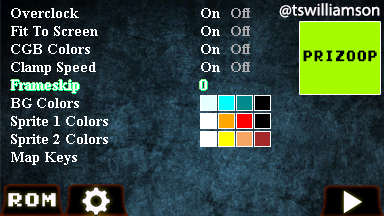
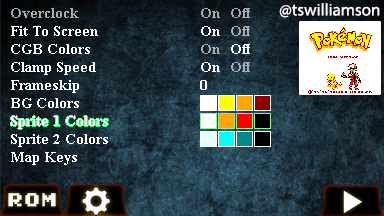
New Readme and options screen reflecting image preview

diff --git a/README.md b/README.md
@@ -3,23 +3,23 @@
 Prizoop
 =======
 
-Prizoop is a Game Boy emulator for the Casio Prizm series graphing calculator, with intense focus on optimization and decent feature set for the target device. As such, it is not a very accurate emulator but is very fast and compatible. 
+Prizoop is a Game Boy emulator for the Casio Prizm series graphing calculator, with intense focus on optimization and decent feature set for the target device. As such, it is not a very accurate emulator but is very fast and compatible. The emulator now supports fx-CG10, fx-CG20, and the new fx-CG50. 
 
 It got its name because it started out as a fork of the multiplatform Game Boy emulator, Cinoop, by CTurt. It has since undergone significant rewrites and improvements, and shares some of the cpu code, organization and constructs from Cinoop, but for the most part resembles Cinoop much less than a normal fork.
 
 ## Install
 
-Copy the .g3a file and the Prizoop folder from this repository to your Casio Prizm calculator's root path when linked via USB. Gameboy roms (.gb) also should go inside of the root directory.
+Copy the prizoop.g3a file to your Casio Prizm calculator's root path when linked via USB. Gameboy roms (.gb) also should go inside of the root directory. That's it! No additional files to add anymore.
 
 ## Support
 
 ![Game Banner](/Screens/GameBanner.png?raw=true)
 
-The emulator now plays over 95% of the games I have been able to test smoothly at this point. Some games where timing accuracy is very important suffer, specifically racing games. Road Rash and F1 Race are playable but have some visual issues, and F1 Pole Position does not play at all.
+The emulator now plays over 95% of the games I have been able to test smoothly at this point. Some games where timing accuracy is very important suffer, specifically racing games. Road Rash and F1 Race are playable but have some visual issues, and F1 Pole Position does not play at all. Pokemon Rouge (the French Pokemon Red) now officially works.
 
 ## Building
 
-Project root must be within /projects directory of publicly available community SDK v0.3 for Prizm. The SDK must be patched with the latest version of libFXCG as well. To build on a Windows machine simply run make.bat. For other systems please refer to your Prizm SDK documentation on how to compile projects.
+Project root must be within /projects directory of publicly available community SDK v0.3 for Prizm. The SDK must be patched with the latest version of libFXCG as well which has the latest syscalls defined. To build on a Windows machine simply run make.bat. For other systems please refer to your Prizm SDK documentation on how to compile projects.
 
 If you use Visual Studio, a project is included that uses a Windows Simulator I wrote that wraps Prizm OS functions so that the code and emulator can easily be tested and iterated on within Visual Studio. See the prizmsim.cpp/h code for details on its usage.
 
@@ -33,6 +33,8 @@ F6 - Play ROM (it will first show diagnostic information)
 
 When inside a game, the MENU key will exit to the settings screen, and pressing MENU again will take you back to the calculator OS.
 
+A single save state is supported per ROM, which can be loaded/saved using the remappable keys mentioned in the Controls section.
+
 ### Prizm Controls
 
 You can configure your own keys in the Settings menu, these are the default I found to work well:
@@ -42,6 +44,8 @@ You can configure your own keys in the Settings menu, these are the default I fo
 - Select: F5
 - Start: F6
 - Dpad : Dpad
+- Save State : X (multiply), which is the alpha 's' key for save
+- Load State : -> (store), which is the alpha 'l' key for load
 
 ## Special Thanks
 
